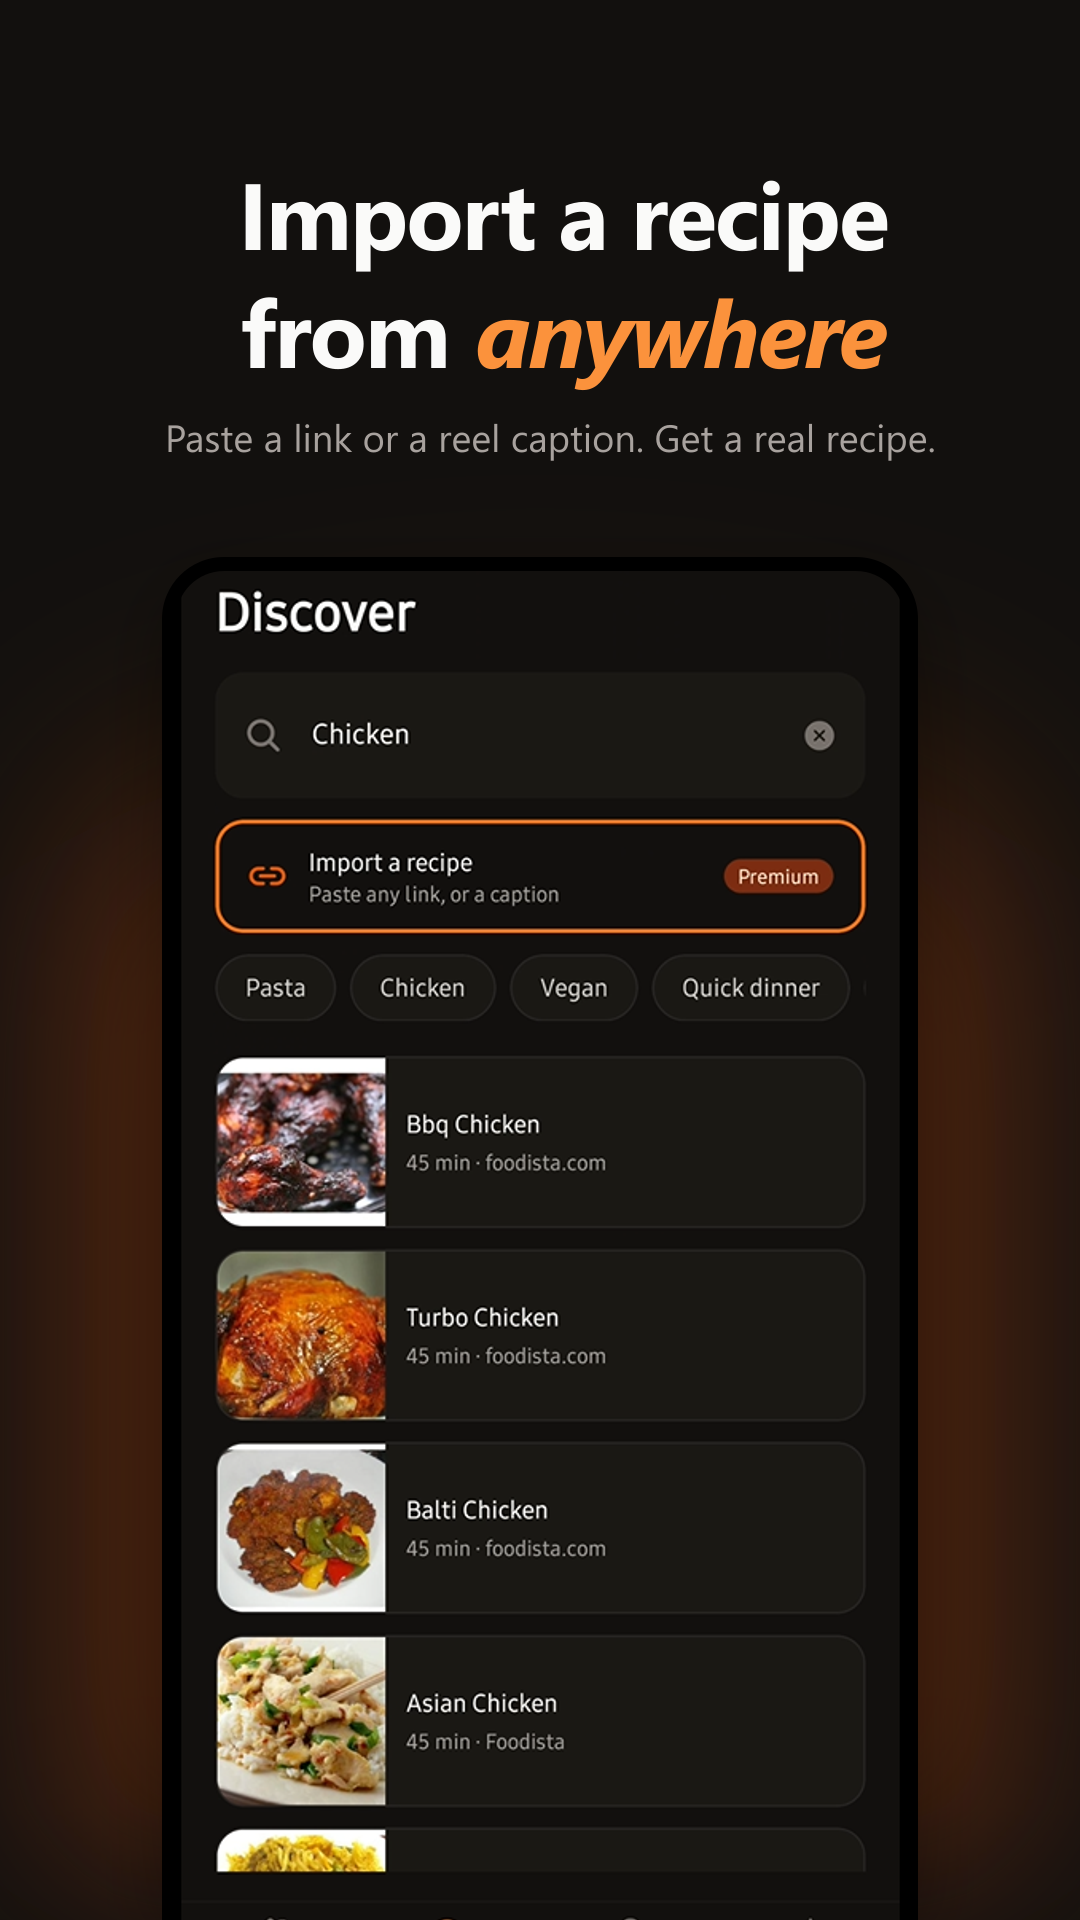
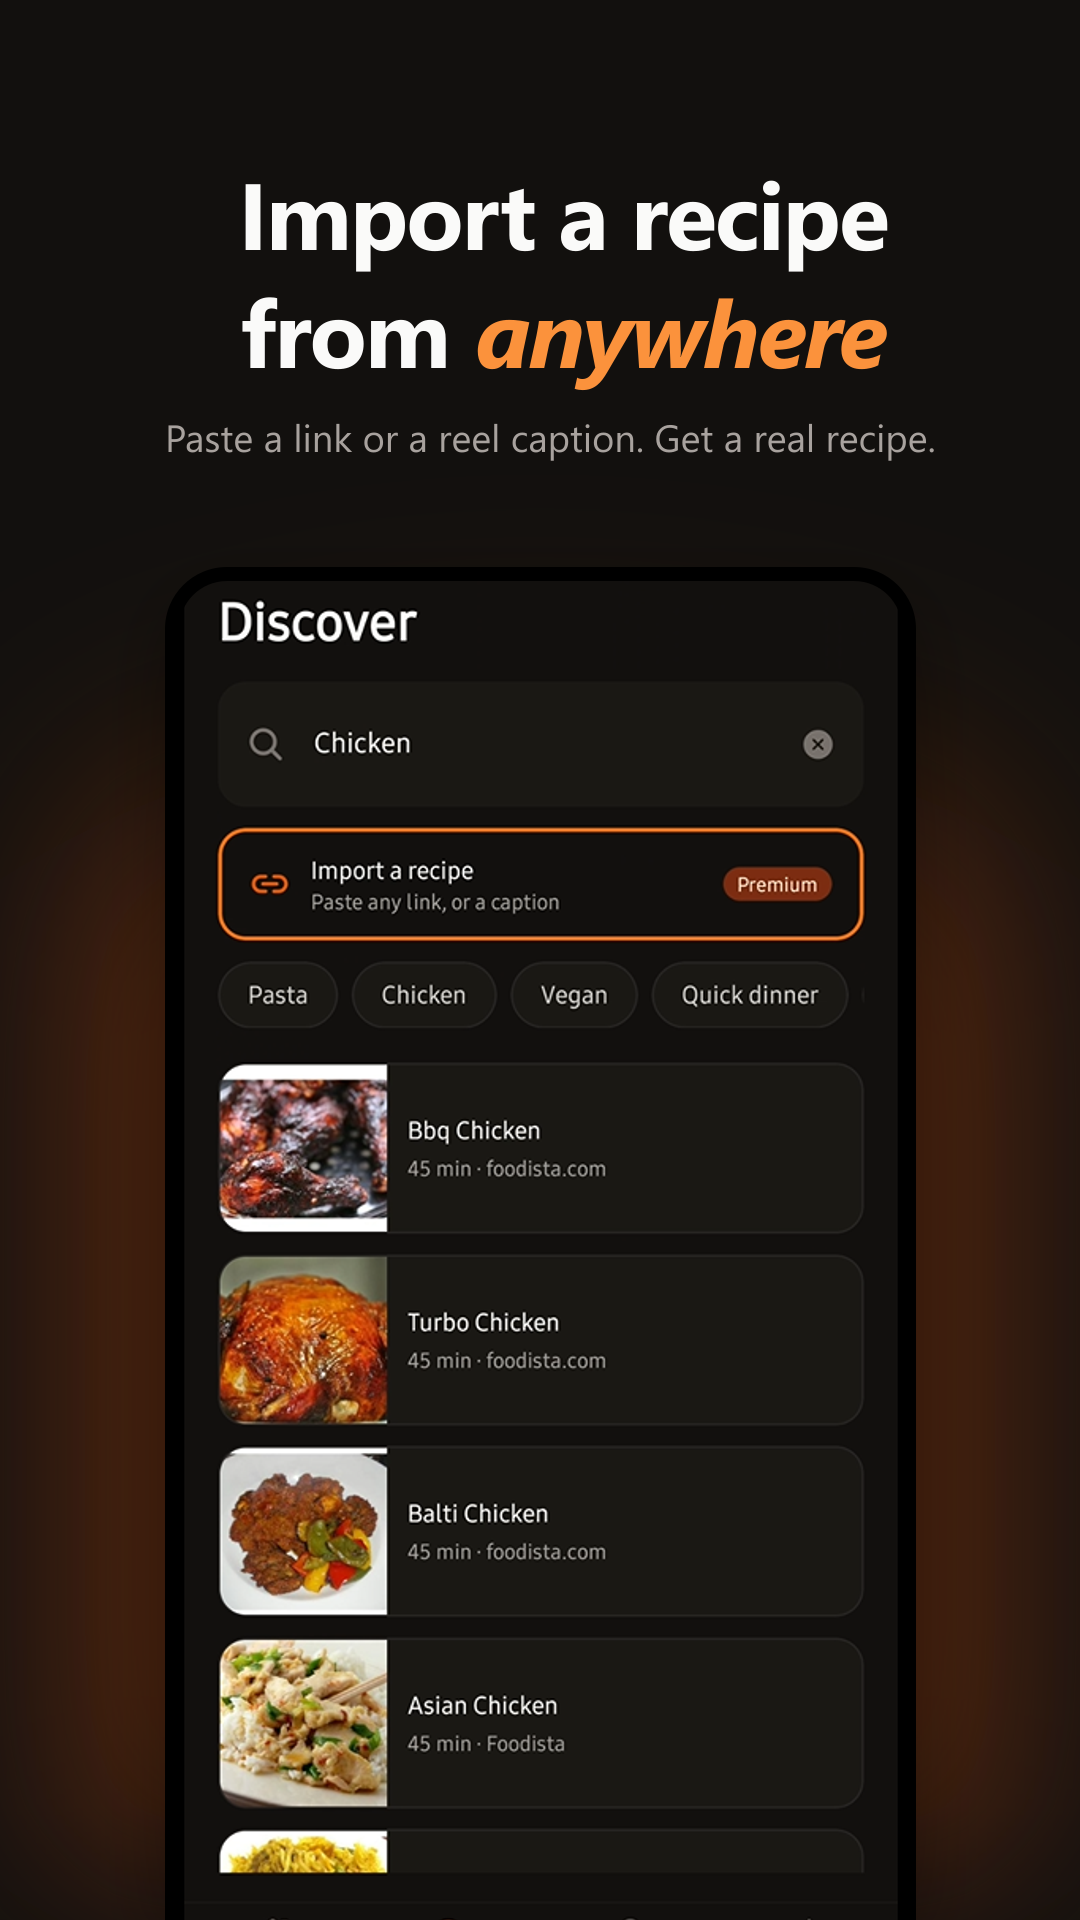
Keep the device frame clear of the subtitle, and shape it per target
Headline positions scale with canvas width while the frame's top scaled
with height, so on the iPad's squarer canvas the frame sat over the
subtitle and hid it. The frame's aspect is now per target too — forcing
an iPad capture into a phone-shaped frame cropped the sides off.

Changed region(s): [[0.1833, 0.375, 0.7944, 1.0], [0.1833, 0.3125, 0.3972, 0.3438], [0.7944, 0.4375, 0.825, 0.4688]]

diff --git a/store/make-screenshots.js b/store/make-screenshots.js
@@ -26,10 +26,10 @@ const sharp = require("sharp");
  *   node store/make-screenshots.js ios     → App Store, into store/out-ios/
  */
 const TARGETS = {
-  play: { w: 1080, h: 1920, dir: "out", suffix: "play", shots: "shots" },
-  ios: { w: 1290, h: 2796, dir: "out-ios", suffix: "ios", shots: "shots-ios" },
+  play: { w: 1080, h: 1920, dir: "out", suffix: "play", shots: "shots", frameAspect: 2.0 },
+  ios: { w: 1290, h: 2796, dir: "out-ios", suffix: "ios", shots: "shots-ios", frameAspect: 2.0 },
   // 13-inch iPad. Required once app.json sets supportsTablet.
-  ipad: { w: 2064, h: 2752, dir: "out-ipad", suffix: "ipad", shots: "shots-ipad" },
+  ipad: { w: 2064, h: 2752, dir: "out-ipad", suffix: "ipad", shots: "shots-ipad", frameAspect: 1.4 },
 };
 
 const TARGET = TARGETS[process.argv[2]] ?? TARGETS.play;
@@ -177,11 +177,14 @@ const BEZEL = px(14);
  * derived from it at roughly a phone's own aspect, which is what the sources
  * are. The cap stops it growing into the margins on a very tall canvas.
  */
-const PHONE_TOP = Math.round(CANVAS.h * 0.29);
+// Below the text, always. The headline positions scale with canvas width while
+// this scales with height, so on a squarer canvas — the iPad — 29% put the
+// frame on top of the subtitle and hid it completely.
+const PHONE_TOP = Math.max(Math.round(CANVAS.h * 0.29), px(452) + px(115));
 const PHONE_H = CANVAS.h - PHONE_TOP + px(120);
 const PHONE_INNER_H = PHONE_H - BEZEL * 2;
 const PHONE_INNER_W = Math.min(
-  Math.round(PHONE_INNER_H / 2.0),
+  Math.round(PHONE_INNER_H / TARGET.frameAspect),
   Math.round(CANVAS.w * 0.8),
 );
 
